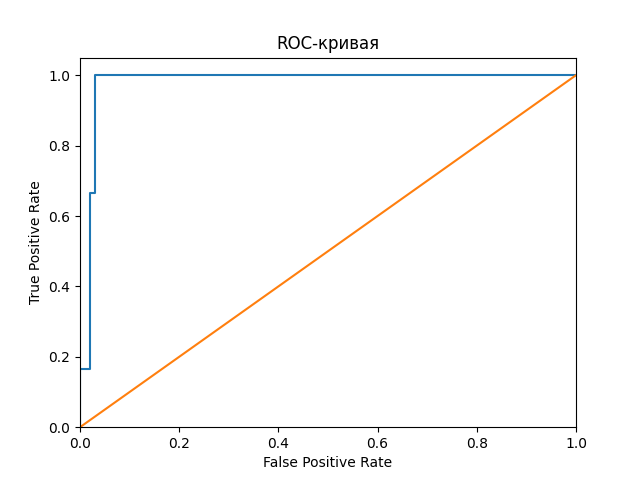
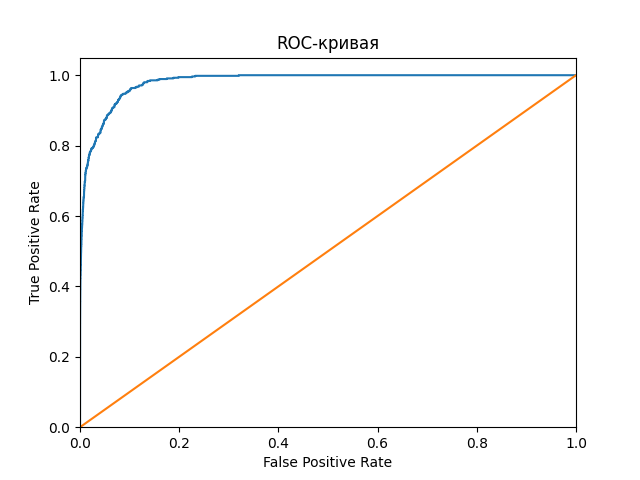
Fixed features

Changed region(s): [[0.125, 0.2188, 0.1875, 0.7812], [0.1875, 0.1562, 0.3125, 0.2188], [0.125, 0.1562, 0.1562, 0.1875]]

diff --git a/tasks/feature_3.py b/tasks/feature_3.py
@@ -137,3 +137,60 @@ def get_y(graph:UndirectedGraph, edges:list,t_s:int):
       else:
          Y.append(0)
    return Y
+
+def get_y(graph:UndirectedGraph, edges:list, t_s:int):
+   Y=[]
+   for i in range (len(edges)):
+      edge=edges[i]
+      index=edge.find(".")
+      a=int(edge[:index])
+      b=int(edge[index+1:])
+      if b in graph.edge_map[a].keys() and max(graph.edge_map[a][b])>t_s:
+         Y.append(1)
+      else:
+         Y.append(0)
+   return Y
+
+# def get_x_big_graph(graph:UndirectedGraph,node_activity_map:dict,nodes_begin:list,t_s:int):
+#    # для каждой пары вершин найдём характеристики из feature3(3) 
+#    counted_edges=[]
+#    X=[]
+#    for k in range (len(nodes_begin)):
+#       edge=nodes_begin[k]
+#       index=edge.find(".")
+#       i=int(edge[:index])
+#       j=int(edge[index+1:])
+#       # Если рассмотренное ребро входит в 2/3 графа-пропускаем его
+#       flag=False
+#       if j in graph.edge_map[i].keys() and min(graph.edge_map[i][j])<=t_s:
+#          flag=False
+#       else:
+#          flag=True 
+#       if j!=i and flag and j in node_activity_map.keys() and i in node_activity_map.keys():
+#          first_i=node_activity_map[i][0]
+#          second_i=node_activity_map[i][1]
+#          third_i=node_activity_map[i][2]
+#          first_j=node_activity_map[j][0]
+#          second_j=node_activity_map[j][1]
+#          third_j=node_activity_map[j][2]
+#          pre_X=[]
+#          for k in range(7):
+#             pre_X.append(first_i[k]+first_j[k])
+#             pre_X.append(second_i[k]+second_j[k])
+#             pre_X.append(third_i[k]+third_j[k])
+#             pre_X.append(abs(first_i[k]-first_j[k]))
+#             pre_X.append(abs(second_i[k]-second_j[k]))
+#             pre_X.append(abs(third_i[k]-third_j[k]))
+#             pre_X.append(min(first_i[k],first_j[k]))
+#             pre_X.append(min(second_i[k],second_j[k]))
+#             pre_X.append(min(third_i[k],third_j[k]))
+#             pre_X.append(max(first_i[k],first_j[k]))
+#             pre_X.append(max(second_i[k],second_j[k]))
+#             pre_X.append(max(third_i[k],third_j[k]))
+#          counted_edges.append(str(i)+"."+str(j))
+#          pre_X.append(common_neigbours(graph,i,j,t_s))
+#          pre_X.append(adamic_adar(graph,i,j,t_s))
+#          pre_X.append(jaaccard_coefficient(graph,i,j,t_s))
+#          pre_X.append(preferential_attachment(graph,i,j,t_s))
+#          X.append(pre_X)
+#    return X,counted_edges

diff --git a/tasks/task1_1.py b/tasks/task1_1.py
@@ -166,5 +166,37 @@ def get_snowball_for_regression(graph: UndirectedGraph, start_node_list: List[in
         queue=queue[1:]
     return start_list
 
+# def get_snowball_for_regression(graph: UndirectedGraph, start_node_list: List[int], start_nodes_count:int,number_of_nodes_in_list:int,t_s:int)->List[int]:
+#     start_list=sample(start_node_list,start_nodes_count)
+#     queue=[]
+#     visited=[]
+#     out_list=[]
+#     queue.append(start_list[0])
+#     visited.append(start_list[0])
+#     while len(out_list)<min(number_of_nodes_in_list,math.floor(len(start_node_list)/2)) and queue:
+#         for v in graph.edge_map[queue[0]].keys():
+#             if min(graph.edge_map[queue[0]][v])>t_s:
+#                 continue
+#             for w in graph.edge_map[v].keys():
+#                 if w not in visited and min(graph.edge_map[queue[0]][v])<=t_s:
+#                     out_list.append(str(queue[0])+"."+str(w))
+#                     visited.append(w)
+#                     queue.append(w)  
+#         queue=queue[1:]
+#     print("Forward")
+#     queue=[]
+#     visited=[]
+#     queue.append(start_list[0])
+#     visited.append(start_list[0])
+#     cur_len=len(out_list)
+#     while len(out_list)<cur_len+math.floor(cur_len/3) and queue:
+#         for v in graph.edge_map[queue[0]].keys():
+#              if v not in visited:
+#                 if max(graph.edge_map[queue[0]][v])>t_s and str(queue[0])+"."+str(w) not in out_list and str(w)+"."+str(queue[0]) not in out_list:
+#                     out_list.append(str(queue[0])+"."+str(w))
+#                 visited.append(v)  
+#                 queue.append(v)
+#         queue=queue[1:]
 
+#     return out_list
 

diff --git a/main.py b/main.py
@@ -31,7 +31,7 @@ if __name__ == '__main__':
                "socfb-Middlebury45",        #16
                "socfb-Reed98"]              #17
     with_t=[1,1,1,1,0,1,1,1,0,0,0,0,0,0,0,1,0,0]
-    index_in_list=15 # это меняем в зависимости от того, какой граф хотим протестить из списка
+    index_in_list=6 # это меняем в зависимости от того, какой граф хотим протестить из списка
     restriction_number=350
     filename=filenames[index_in_list]
     graph_with_t=with_t[index_in_list]
